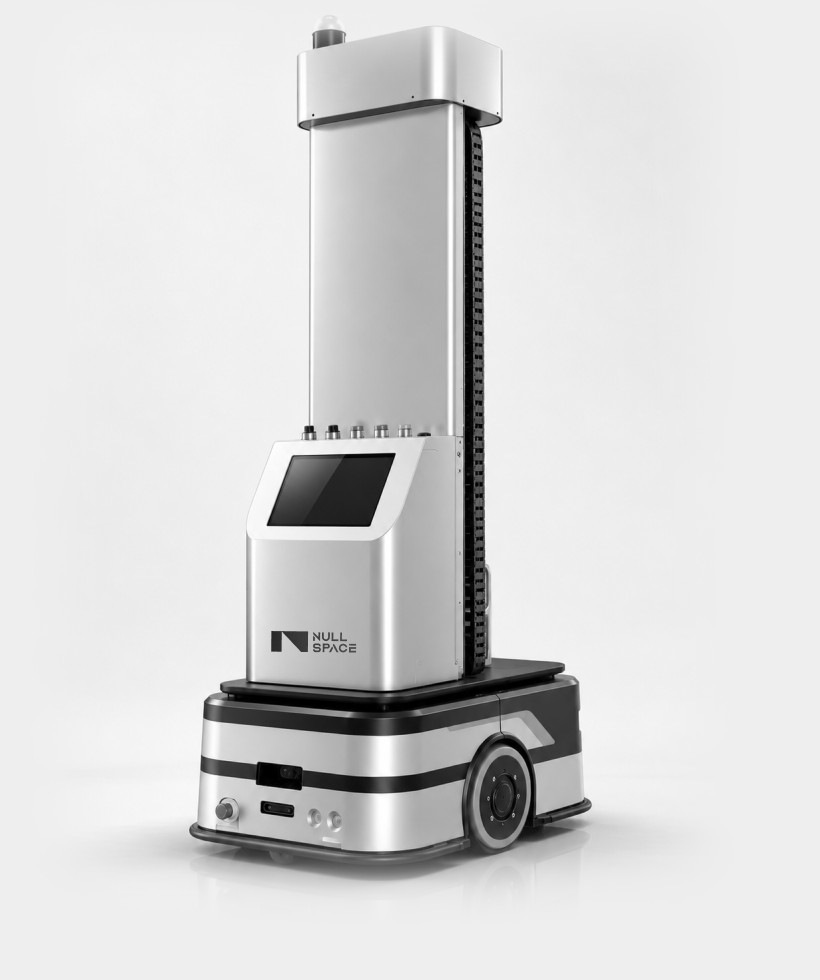
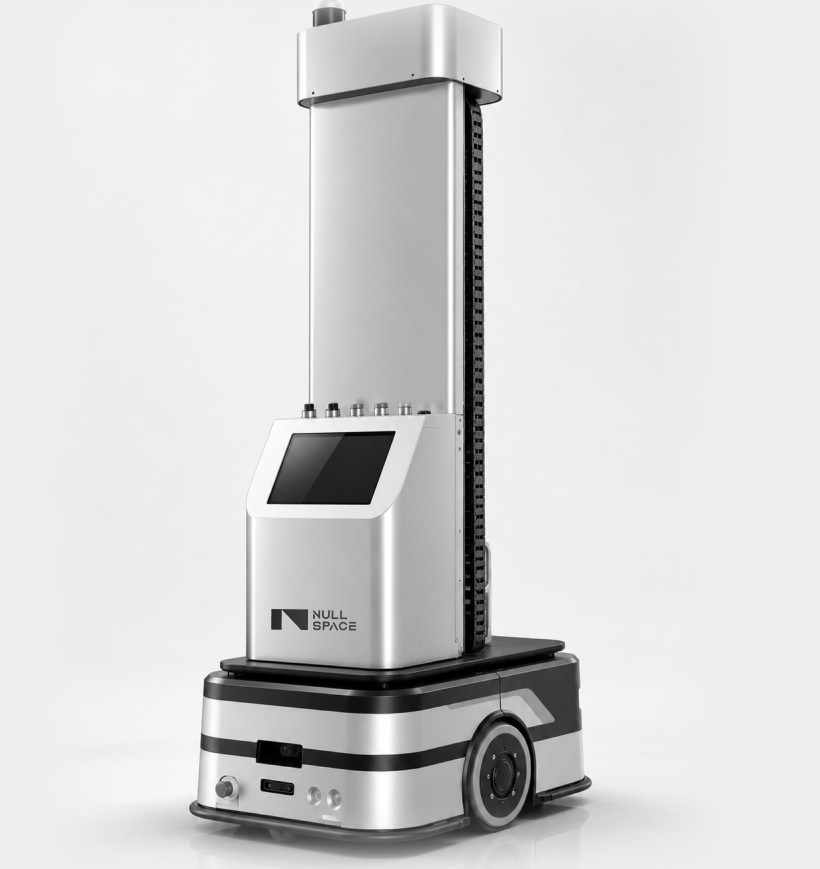
N-PROVER: robot fills card height
Claude-Session: https://claude.ai/code/session_01LdgwYFW44Z9Jz33BD46AYh

diff --git a/client/src/HeaderOverrides.css b/client/src/HeaderOverrides.css
@@ -150,5 +150,5 @@ p { text-wrap: balance; }
 .sp-product-image-prover { background: #eeeeee !important; }
 .home-page .product-image.prover img,
 .info-page .info-product-art-n-prover img,
-.sp-product-image-prover img { object-fit: contain !important; object-position: center !important; padding: 6% 0; box-sizing: border-box; filter: grayscale(1); scale: 1 !important; translate: none !important; }
+.sp-product-image-prover img { object-fit: contain !important; object-position: center !important; padding: 0 !important; box-sizing: border-box; filter: grayscale(1); scale: 1 !important; translate: none !important; }
 .info-page .info-product-art-n-prover::after { display: none; }
